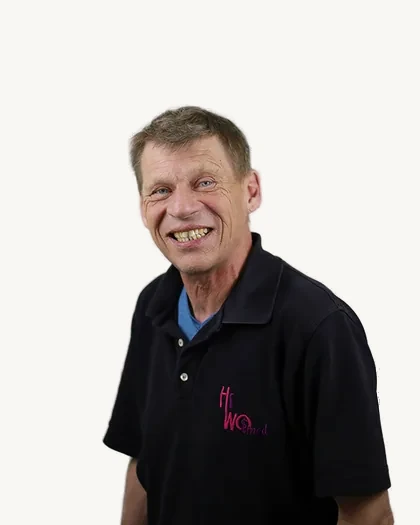
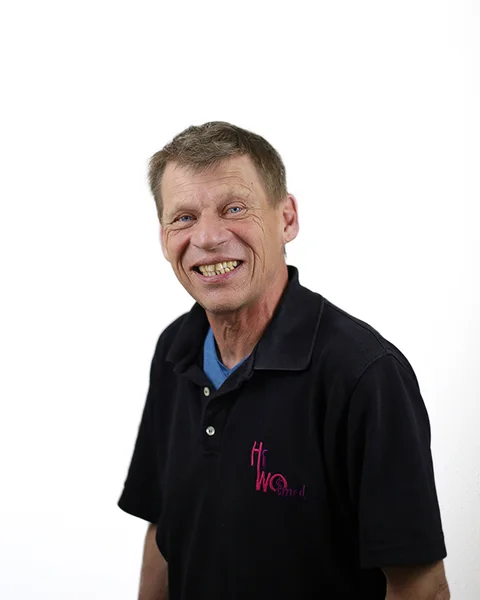
Team-Fotos durch höher aufgelöste Originale ersetzen
24 Mitarbeiterfotos (alle außer den bereits als lowRes markierten sowie
den nach dem letzten Website-Stand hinzugekommenen Kolleginnen/Kollegen)
aus dem vom Kunden bereitgestellten Originalordner übernommen. Die
bisherigen Dateien waren von der alten Website abfotografiert und
stark verkleinert/komprimiert (teils nur 7-15 KB für 420x525px);
die Originale lagen einheitlich bei 661x784px vor.

Zentriert auf 4:5 zugeschnitten (wie bisher) und auf 480x600 statt
420x525 exportiert -- ausreichend Reserve für Retina-Displays in den
bestehenden Grid-Layouts. width/height-Attribute an den vier Stellen,
die Team-Fotos rendern, entsprechend angepasst.

Nebeneffekt: Der Hintergrund der neuen Fotos ist nahezu reines Weiß statt
des vorherigen warmen Off-White, passt dadurch sogar noch etwas besser
zur hellen Grundfläche der Seite.
Claude-Session: https://claude.ai/code/session_01NZDED2mY2na3YP7scN1u3a

diff --git a/src/app/services/page.tsx b/src/app/services/page.tsx
@@ -123,8 +123,8 @@ function ServiceEntry({ service, index }: { service: Service; index: number }) {
                 <div className="figure-frame aspect-[4/5] w-[72px] shrink-0">
                   <img
                     src={`/team/${t.photo}.webp`}
-                    width={420}
-                    height={525}
+                    width={480}
+                    height={600}
                     alt={`Porträt von ${t.name}`}
                     loading="lazy"
                     decoding="async"

diff --git a/src/app/karriere/page.tsx b/src/app/karriere/page.tsx
@@ -71,8 +71,8 @@ export default function KarrierePage() {
               <div className="figure-frame aspect-[4/5] w-[68px] shrink-0">
                 <img
                   src={`/team/${applicationContact.photo}.webp`}
-                  width={420}
-                  height={525}
+                  width={480}
+                  height={600}
                   alt={`Porträt von ${applicationContact.name}`}
                   loading="lazy"
                   decoding="async"

diff --git a/src/app/kontakt/page.tsx b/src/app/kontakt/page.tsx
@@ -238,8 +238,8 @@ export default function KontaktPage() {
                 <div className="figure-frame aspect-[4/5] w-full">
                   <img
                     src={`/team/${m.photo}.webp`}
-                    width={420}
-                    height={525}
+                    width={480}
+                    height={600}
                     alt={`Porträt von ${m.name}`}
                     loading="lazy"
                     decoding="async"

diff --git a/src/app/team/page.tsx b/src/app/team/page.tsx
@@ -29,8 +29,8 @@ function MemberCard({ member, delay }: { member: TeamMember; delay: number }) {
       <div className="figure-frame aspect-[4/5] w-full">
         <img
           src={`/team/${member.photo}.webp`}
-          width={420}
-          height={525}
+          width={480}
+          height={600}
           alt={`Porträt von ${member.name}`}
           loading="lazy"
           decoding="async"
